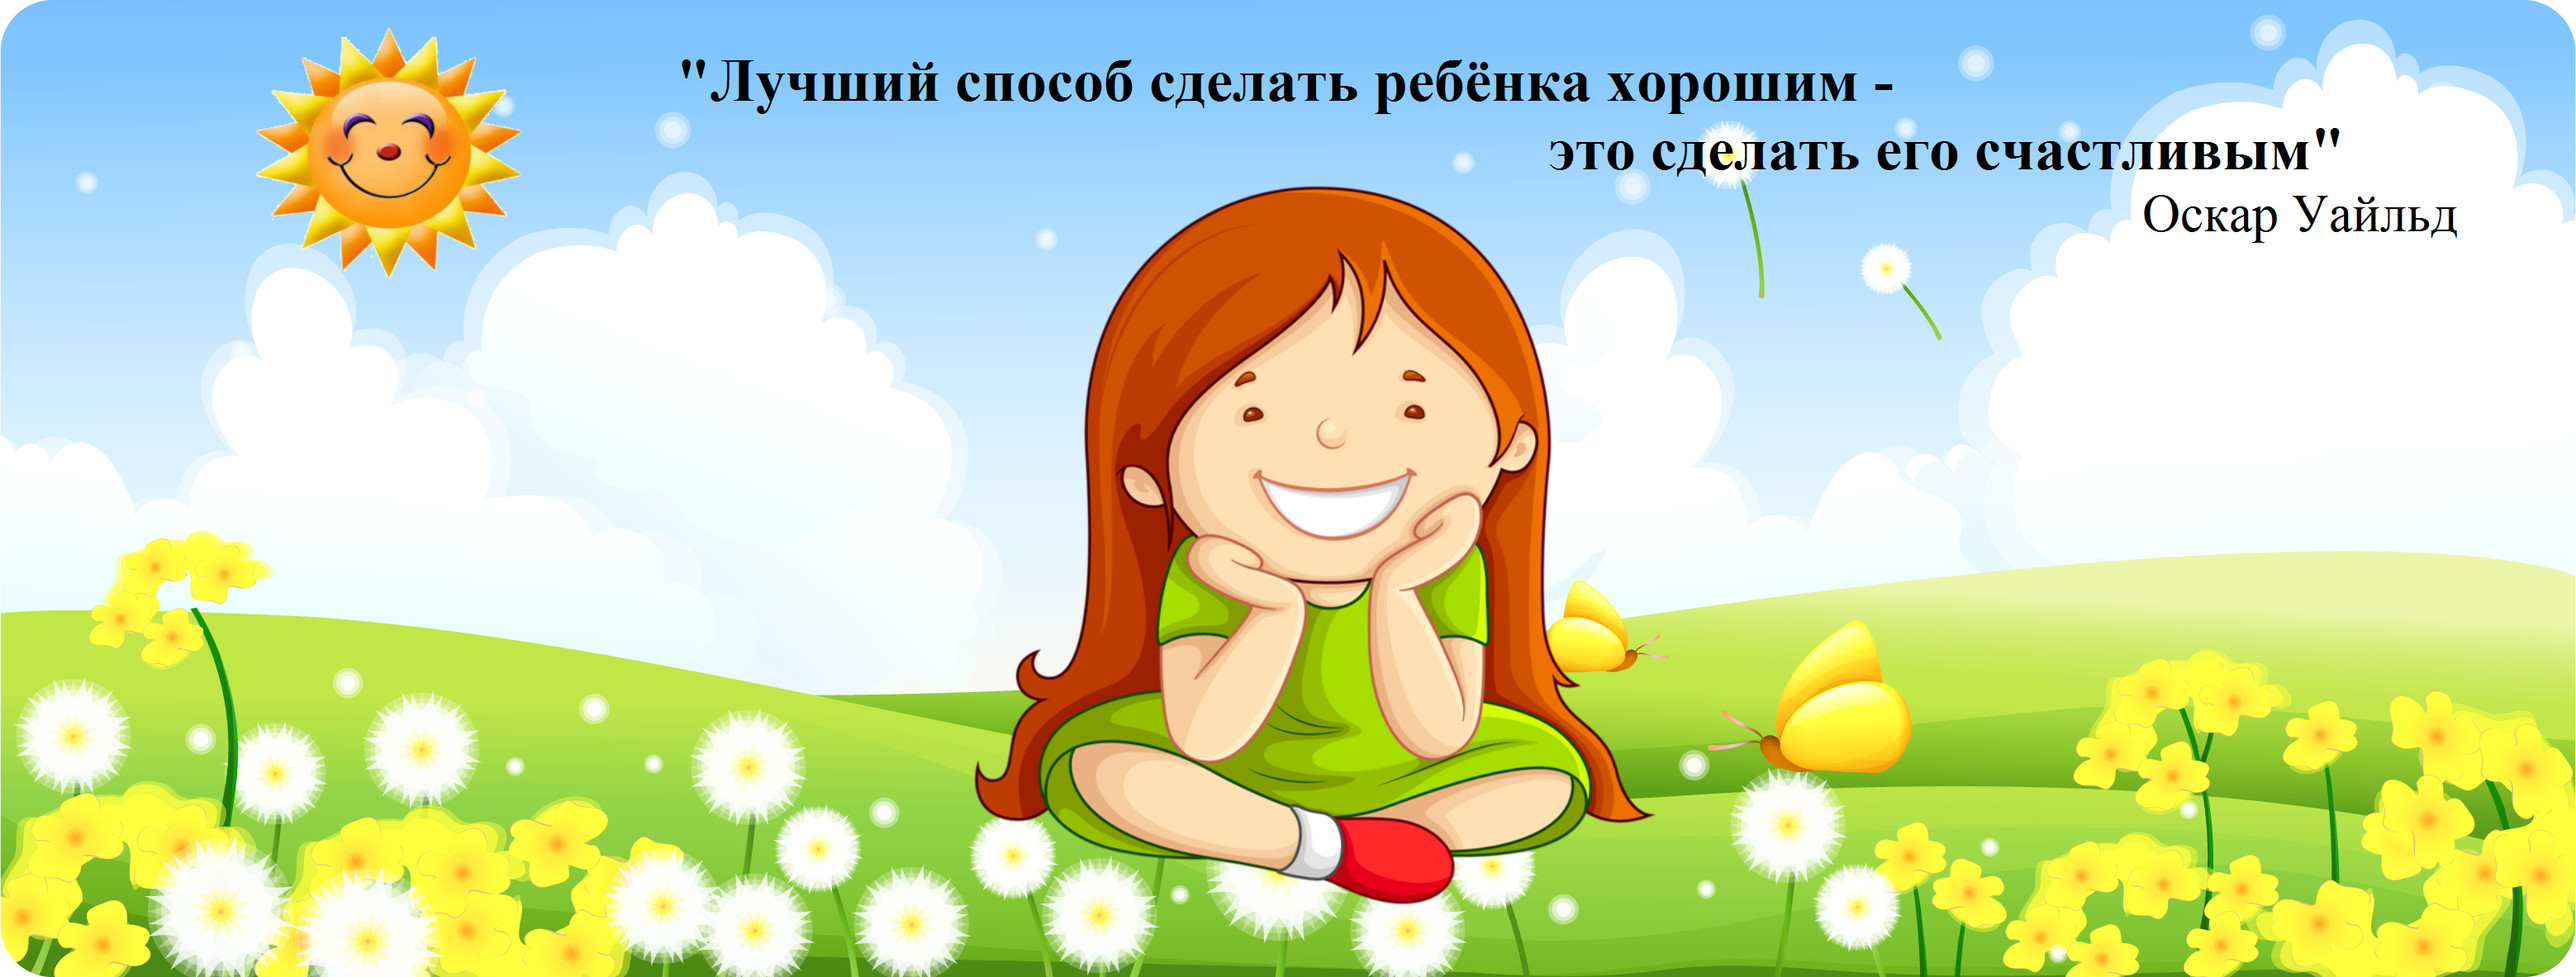
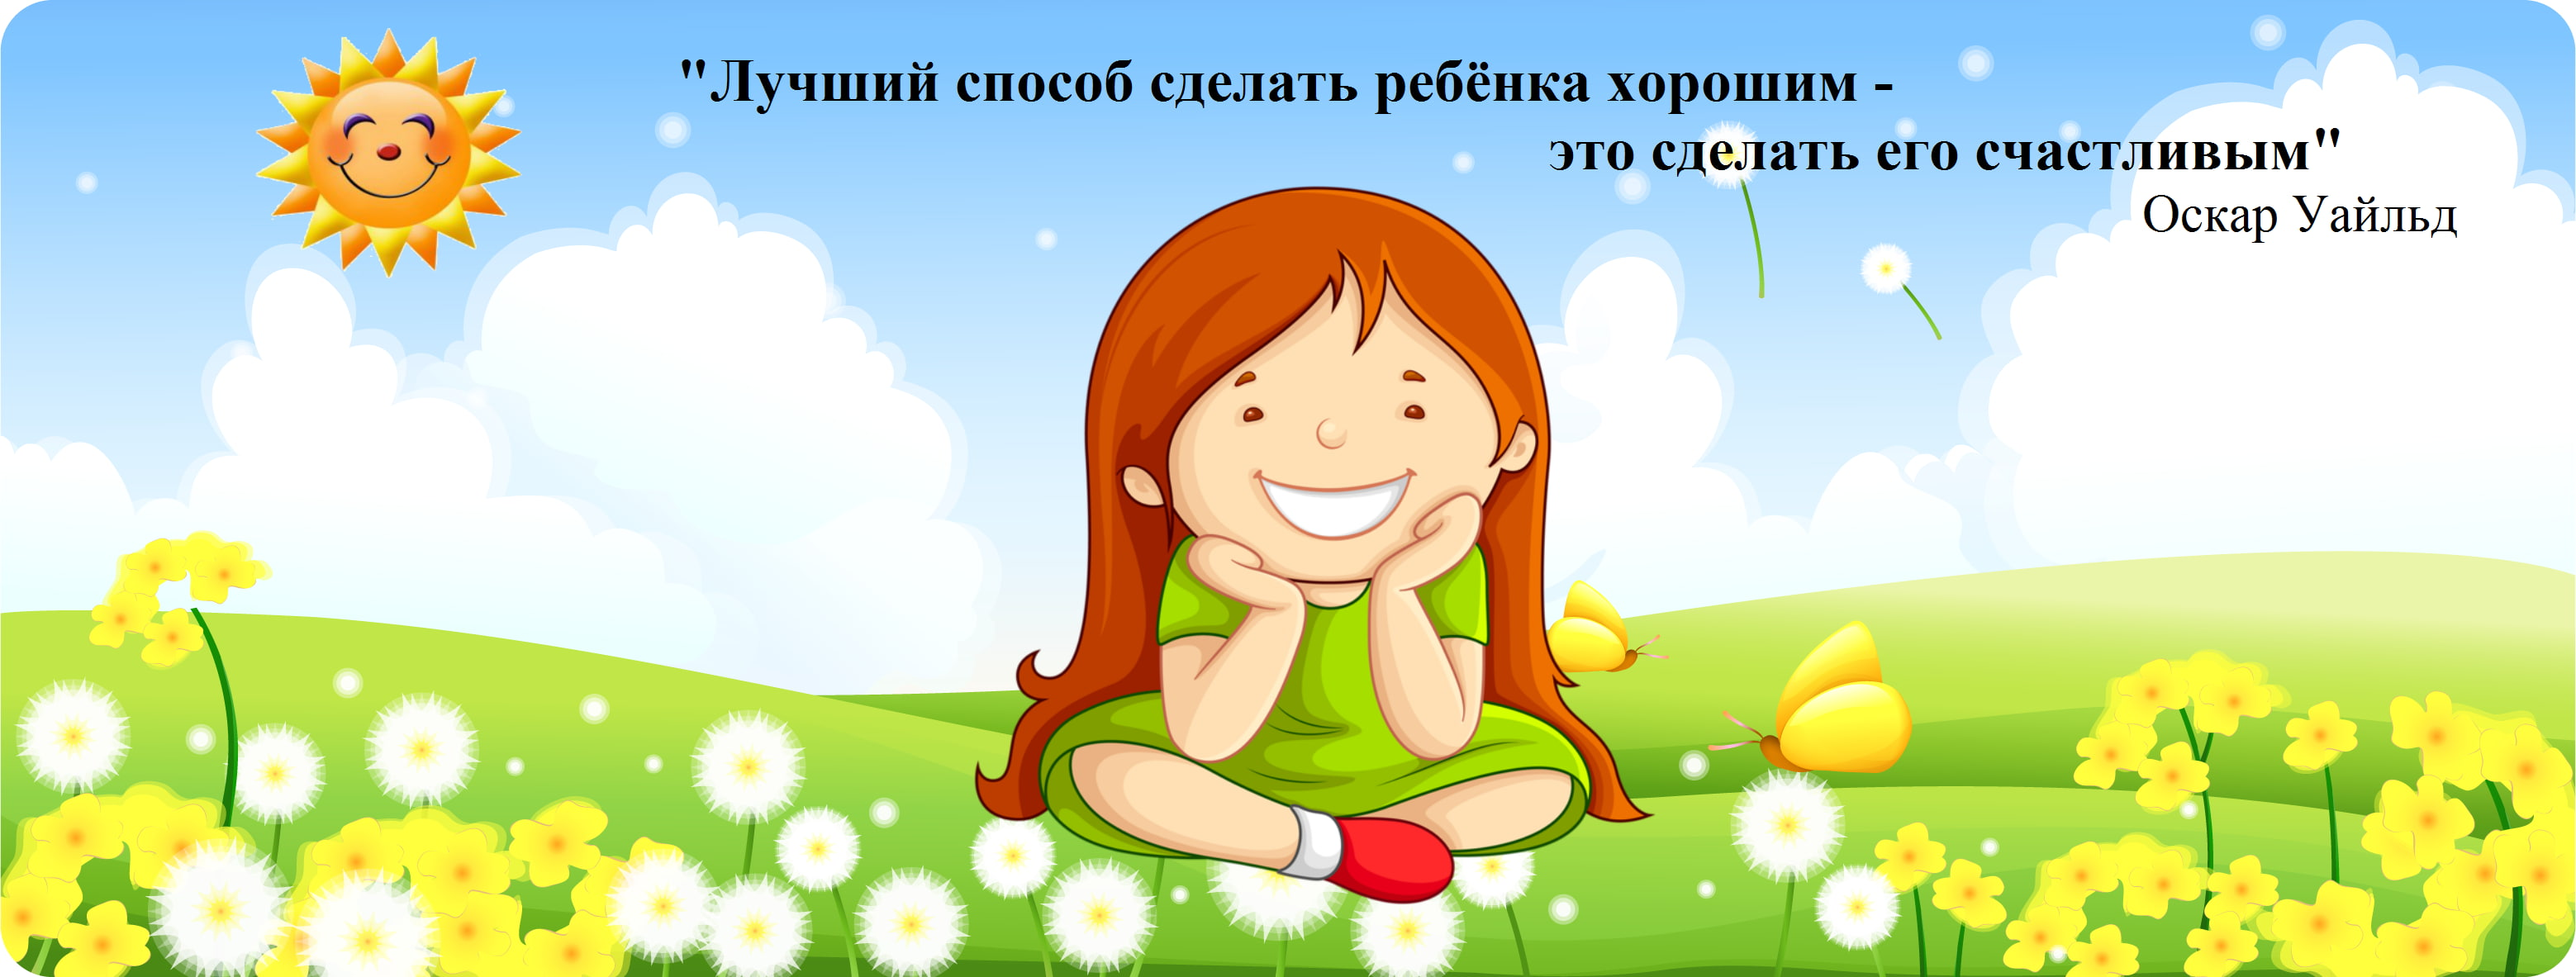
A LOT OF CHANGES 5

diff --git a/public/css/main.css b/public/css/main.css
@@ -5,6 +5,8 @@
     background-color: transparent;
     background: url('/images/header.jpg') no-repeat;
     background-size: 100% 100%;
+    border-radius: 17px;
+
 }
 
 .head {

diff --git a/resources/views/AdminGames/add.blade.php b/resources/views/AdminGames/add.blade.php
@@ -23,21 +23,21 @@
                         {{ csrf_field() }}
                         <!-- enctype необходим для отправки изображения -->
                             <p>Наименование:</p>
-                            <input type="text" name="name" placeholder="Наименование">
+                            <input type="text" name="name" placeholder="Наименование" required>
                             <p>Описание:</p>
-                            <textarea name="description" cols="140" rows="20"></textarea>
+                            <textarea name="description" cols="140" rows="20" required></textarea>
 
                             <br><br>
 
                             <p>Изображение </p>
                             <img src="" width="200" alt="">
-                            <input type="file" name="image" placeholder="Изображение" value="">
+                            <input type="file" name="image" placeholder="Изображение" value="" required>
                             <br><br><br>
 
                             <p>Архив с игрой в формате zip</p>
                             <input type="file" name="document" placeholder="Архив с игрой" value="">
                             <br><br><br>
-                            <input type="submit" class="btn btn-default" name="submit" value="Сохранить">
+                            <input type="submit" class="btn btn-default" name="submit" value="Сохранить" required>
                             <br><br><br>
                         </form>
                     </div>

diff --git a/resources/views/AdminPhotos/add.blade.php b/resources/views/AdminPhotos/add.blade.php
@@ -23,13 +23,13 @@
                             {{ csrf_field() }}
                             <!-- enctype необходим для отправки изображения -->
                             <p>Описание:</p>
-                            <textarea name="description" cols="140" rows="20"></textarea>
+                            <textarea name="description" cols="140" rows="20" required></textarea>
 
                             <br><br>
 
                             <p>Изображение </p>
                             <img src="" width="200" alt="">
-                            <input type="file" name="image" placeholder="Изображение" value="">
+                            <input type="file" name="image" placeholder="Изображение" value="" required>
                             <br><br><br>
                             <input type="submit" class="btn btn-default" name="submit" value="Сохранить">
                             <br><br><br>

diff --git a/resources/views/AdminEducation/add.blade.php b/resources/views/AdminEducation/add.blade.php
@@ -23,12 +23,12 @@
                             {{ csrf_field() }}
                             <!-- enctype необходим для отправки изображения -->
                             <p>Наименование:</p>
-                            <textarea name="name" cols="140" rows="9"></textarea>
+                            <textarea name="name" cols="140" rows="9" required></textarea>
 
                             <br><br>
 
                             <p>Файл </p>
-                            <input type="file" name="document" placeholder="Документ в формате docx" value="">
+                            <input type="file" name="document" placeholder="Документ в формате docx" value="" required>
                             <br><br><br>
                             <input type="submit" class="btn btn-default" name="submit" value="Сохранить">
                             <br><br><br>

diff --git a/resources/views/AdminInformation/add.blade.php b/resources/views/AdminInformation/add.blade.php
@@ -23,12 +23,12 @@
                             {{ csrf_field() }}
                             <!-- enctype необходим для отправки изображения -->
                             <p>Наименование:</p>
-                            <textarea name="name" cols="140" rows="9"></textarea>
+                            <textarea name="name" cols="140" rows="9" required></textarea>
 
                             <br><br>
 
                             <p>Файл </p>
-                            <input type="file" name="document" placeholder="Документ в формате docx" value="">
+                            <input type="file" name="document" placeholder="Документ в формате docx" value="" required>
                             <br><br><br>
                             <input type="submit" class="btn btn-default" name="submit" value="Сохранить">
                             <br><br><br>

diff --git a/resources/views/AdminPhotos/index.blade.php b/resources/views/AdminPhotos/index.blade.php
@@ -8,7 +8,7 @@
                 <div class="breadcrumbs">
                     <ol class="breadcrumb">
                         <li><a href="/admin/cabinet">Админпанель</a></li>
-                        <li class="active">Управление моими увлечениями</li>
+                        <li class="active">Управление фотогалереей</li>
                     </ol>
                 </div>
                 <a href="/admin/photos/add" class="btn btn-success back"><i class="fa fa-plus"></i> Добавить

diff --git a/resources/views/errors/404.blade.php b/resources/views/errors/404.blade.php
@@ -1,0 +1,12 @@
+<!DOCTYPE html>
+<html lang="en">
+<head>
+    <meta charset="UTF-8">
+    <title>News site</title>
+</head>
+<body>
+<h1 style="font-size: 180px; text-align: center; color: grey; margin-bottom: 30px;">404</h1>
+<h2 style="text-align: center; font-size: 28px; color: dimgrey;">Эта страница была украдена!</h2>
+<h2 style="text-align: center; font-size: 28px; color: dimgrey;">Или указанный адрес не существует.</h2>
+</body>
+</html>

diff --git a/resources/views/layouts/app.blade.php b/resources/views/layouts/app.blade.php
@@ -7,6 +7,7 @@
 
     <title>Laktionova Irina</title>
 
+    <link rel="shortcut icon" href="/favicon.ico" type="image/x-icon">
     <!-- Fonts -->
     <link href="https://fonts.googleapis.com/css?family=Roboto" rel="stylesheet">
     <link rel="stylesheet" href="https://cdnjs.cloudflare.com/ajax/libs/font-awesome/4.5.0/css/font-awesome.min.css" integrity="sha384-XdYbMnZ/QjLh6iI4ogqCTaIjrFk87ip+ekIjefZch0Y+PvJ8CDYtEs1ipDmPorQ+" crossorigin="anonymous">

diff --git a/app/Models/Work.php b/app/Models/Work.php
@@ -29,7 +29,9 @@ class Work extends Model
     {
         DB::table('works')->where('id', '=', $id)->delete();
         $path = public_path();
-        unlink($path . '/images/work/' . $id . '.jpg');
+        if(file_exists($path . '/images/work/' . $id . '.jpg')){
+            unlink($path . '/images/work/' . $id . '.jpg');
+        }
         return true;
     }
 

diff --git a/app/Http/Controllers/Auth/AuthController.php b/app/Http/Controllers/Auth/AuthController.php
@@ -2,7 +2,7 @@
 
 namespace App\Http\Controllers\Auth;
 
-use App\Models;
+use App\Models\User;
 use Validator;
 use App\Http\Controllers\Controller;
 use Illuminate\Foundation\Auth\ThrottlesLogins;
